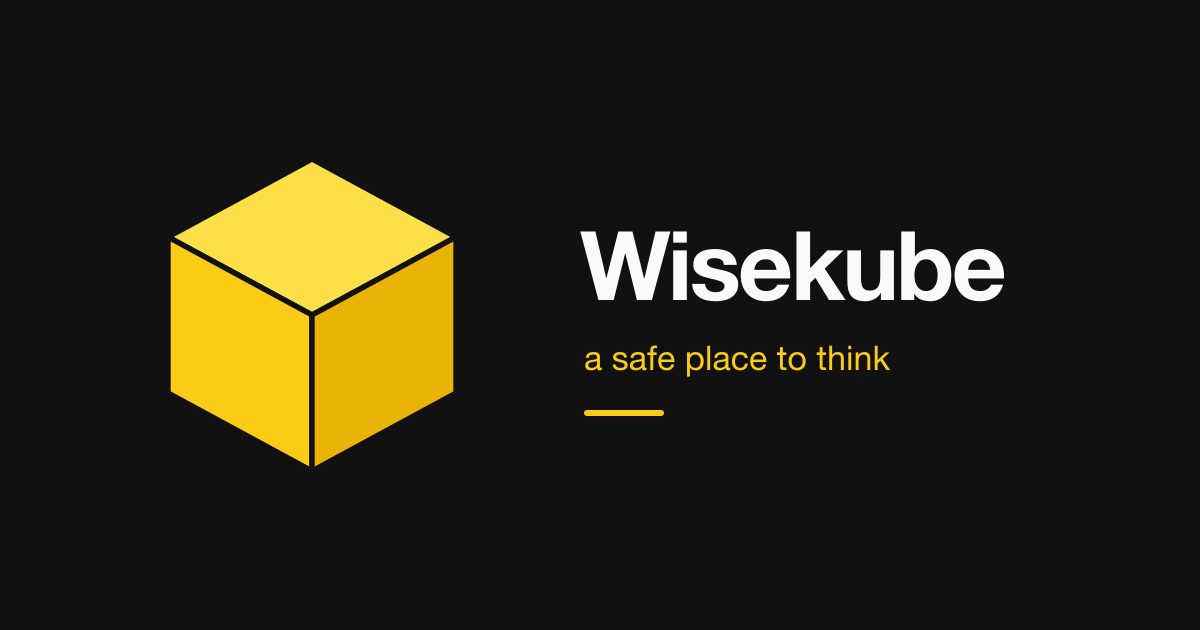
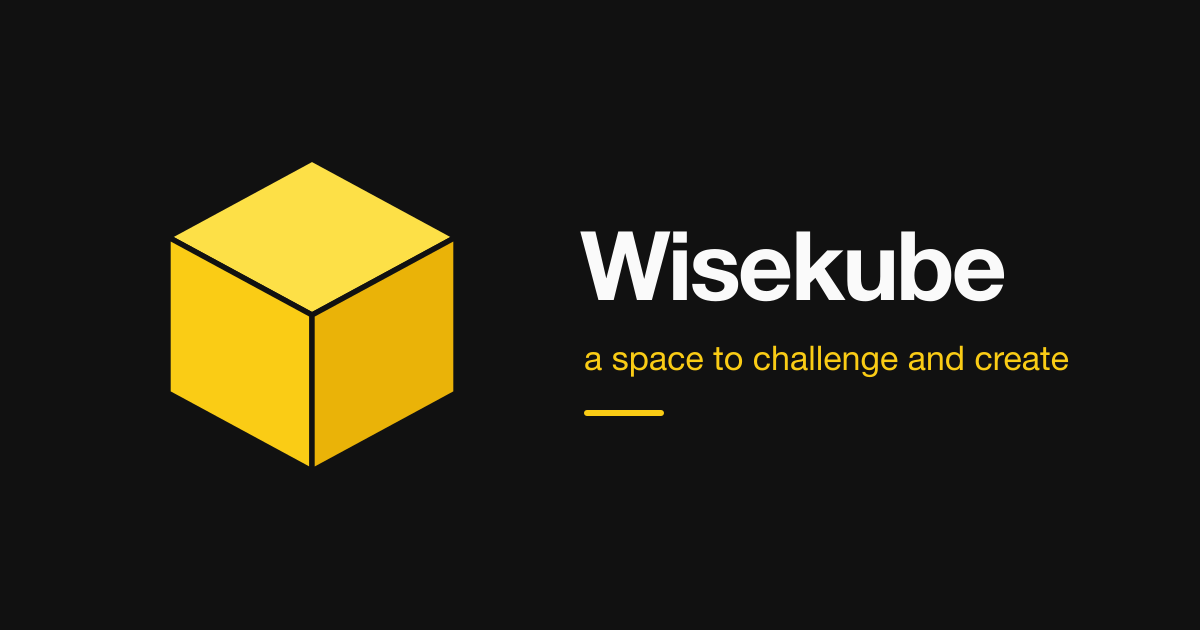
Reword kube copy: six walls, a space to challenge and create

Changed region(s): [[0.5242, 0.5429, 0.8942, 0.6032]]

diff --git a/src/lib/site.ts b/src/lib/site.ts
@@ -1,6 +1,6 @@
 export const SITE = {
   name: 'Wisekube',
-  tagline: 'A kube: four walls and a safe place to think about tech, code and everything in between.',
+  tagline: 'A kube: six walls and a space to challenge and create. Tech, code and everything in between.',
   nav: [
     { label: 'Home', href: '/' },
     { label: 'Blog', href: '/blog/' },

diff --git a/src/content/blog/hello-kube.md b/src/content/blog/hello-kube.md
@@ -1,6 +1,6 @@
 ---
 title: Welcome to the Kube
-description: Four walls, a quiet room, and a place to think out loud.
+description: Six walls, and a space to challenge and create.
 pubDate: 2026-10-27
 author: Mateusz J.
 category: Meta
@@ -8,6 +8,6 @@ featured: true
 image: /og-default.png
 ---
 
-This is a kube — a cube with a k. Its walls aren't there to keep anyone out; they're there to keep things in. Thoughts about tech and code, half-ideas, things worth holding onto.
+This is a kube — a cube with a k, and a cube has six walls. They aren't there to keep anyone out; they hold ideas in place long enough to challenge them and build something from them. Tech, code, half-ideas and experiments.
 
 This is a placeholder post. Replace it with your first real one.

diff --git a/README.md b/README.md
@@ -1,6 +1,6 @@
 # Wisekube
 
-A kube: a cube with a k. Four walls and a safe place to think about tech, code and everything in between.
+A kube: a cube with a k. Six walls and a space to challenge and create. Tech, code and everything in between.
 
 Live at [blog.wisekube.com](https://blog.wisekube.com). Built with [Astro](https://astro.build) and Tailwind CSS, deployed to Cloudflare on every push to `main`.
 
